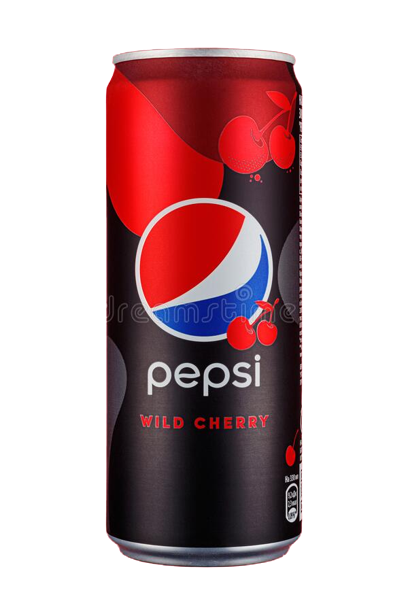
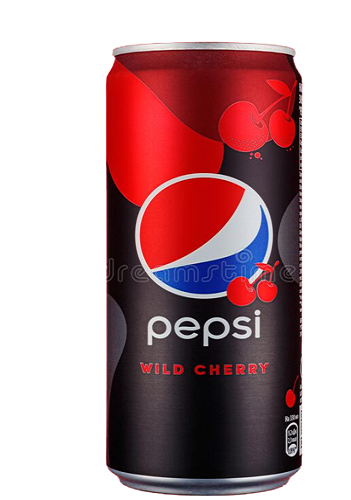
new changes

diff --git a/index.css b/index.css
@@ -3,13 +3,15 @@
  padding: 0;
  box-sizing: border-box;
 }
-/* img {
- width: 6%;
-} */
 body {
  font-family:system-ui, -apple-system, BlinkMacSystemFont, 'Segoe UI', Roboto, Oxygen, Ubuntu, Cantarell, 'Open Sans', 'Helvetica Neue', sans-serif;
- background-color: rgb(41, 41, 150);
- color: white;
+
+}
+.container {
+  background-color: rgb(41, 41, 150);
+  color: white;
+  width: 100%;
+  height: 100vh;
 }
 .logo {
  width: 14%;
@@ -38,6 +40,7 @@ body {
  margin-top: 4em;
 }
 .can-display {
+  margin-top: -30px;
  width: 40%;
 }
 .social-link {
@@ -86,6 +89,7 @@ nav a {
  padding: .5em;
  border-radius: 50px;
  box-shadow: 5px 5px rgb(21, 21, 110);
+ transition: .6s;
 }
 .product:hover {
  background-color: red;
@@ -98,23 +102,24 @@ nav a {
  cursor: pointer;
 }
 .bottom {
- display: flex;
- justify-content: center;
  cursor: pointer;
- margin-top: 2em;
+ position: absolute;
+ left: 600px;
+ bottom: 0;
 }
 .bottom-image {
-  width: 80px;
-  transition:all 1s;
+  width: 50px;
+  transition: .7s;
 }
 .bottom-image:hover {
-  width: 100px;
-}
-.b-imag3 {
-  width: 13.5%;
+  width: 60px;
 }
 
 @media (max-width: 875px) {
+  .container {
+    width: 100%;
+    height: 120vh;
+  }
   .upper {
     display: flex;
     flex-direction: column;
@@ -124,18 +129,18 @@ nav a {
   .logo {
     width: 20%;
     position: relative;
-    left: 35%;
+    left: 130px;
   }
 
   nav ul {
     flex-direction: column;
-    display: block;
     background-color: rgb(23, 23, 71);
     text-align: center;
     margin-top: 0;
   }
 
   nav ul li {
+    margin-right: 0;
     padding-bottom: .8em;
   }
 
@@ -151,6 +156,7 @@ nav a {
   }
 
   .lettering {
+    margin-top: 5em;
     text-align: center;
     width: 100%;
   }
@@ -160,12 +166,10 @@ nav a {
     text-align: center;
     order: -1;
     position: relative;
-    left: 100px;
-    width: 60%;
+    left: 90px;
+    top: 20px;
+    width: 40%;
     margin-bottom: -70px;
-  }
-  .texting {
-    margin-right: 0;
   }
   .social-link {
     margin-top: 1em;
@@ -175,6 +179,32 @@ nav a {
     width: 100px;
   }
   .wordings {
+    font-size: 1rem;
+  }
+  .wordings-bold {
     font-size: 2.5rem;
+  }
+  .texting {
+    margin-right: 0;
+    font-size: .7rem;
+  }
+  .social-link {
+    flex-direction: row;
+  }
+  .social-icon {
+    margin-left: 1em;
+    margin-top: .5em;
+    position: relative;
+    top: -20px;
+    left: -70px;
+  }
+  .bottom {
+    /* position: relative; */
+    left: 100px;
+  }
+  .bottom-image {
+    position: relative;
+    top: 100px;
+    left: 10px;
   }
 }

diff --git a/index.js b/index.js
@@ -1,21 +1,22 @@
 const buttonLeft = document.querySelector('.btn-left');
 const buttonCenter = document.querySelector('.btn-center');
 const buttonRight = document.querySelector('.btn-right');
-const bGround = document.querySelector('body');
+const bGround = document.querySelector('.container');
 const centerImage = document.querySelector('.center-img')
 const thirdImage = document.querySelector('.b-img3')
+const texting = document.querySelector('.texting')
 
 //  thirdImage.style.width = '200px'
 
 buttonLeft.addEventListener('click', function() {
- bGround.style.backgroundColor = 'blue';
-    centerImage.src = 'Pepsi_MAX_hero.png';
+ bGround.style.backgroundColor = 'rgb(41, 41, 150)';
+centerImage.src = 'Pepsi_MAX_hero.png';
 })
 buttonCenter.addEventListener('click', function() {
  bGround.style.backgroundColor = 'black';
-   centerImage.src = 'black_pepsi-removebg-preview.png';
+  centerImage.src = 'black_pepsi-removebg-preview.png';
 })
 buttonRight.addEventListener('click', function() {
  bGround.style.backgroundColor = 'red';
-  centerImage.src = 'sweat-removebg-preview.png';
+  centerImage.src = 'blue_pepsi-removebg-preview.png';
 })

diff --git a/index.html b/index.html
@@ -38,13 +38,13 @@
      </div>
    </div>
    <div class="bottom">
-    <a href="#" class="btn-left"><img src="./blue_pepsi-removebg-preview.png" class="bottom-image b-imag1"></a> 
-    <a href="#" class="btn-center">
-      <img src="./black_pepsi-removebg-preview.png" class="bottom-image b-imag2">
-    </a> 
-    <a href="#" class="btn-right">
-      <img src="./redd_pepsi-removebg-preview.png" class="bottom-image b-imag3">
-    </a> 
+      <a href="#" class="btn-left"><img src="./blue_pepsi-removebg-preview.png" class="bottom-image b-imag1"></a> 
+      <a href="#" class="btn-center">
+        <img src="./black_pepsi-removebg-preview.png" class="bottom-image b-imag2">
+      </a> 
+      <a href="#" class="btn-right">
+        <img src="./blue_pepsi-removebg-preview.png" class="bottom-image b-imag3">
+      </a> 
    </div>
   </div>
  </div>
